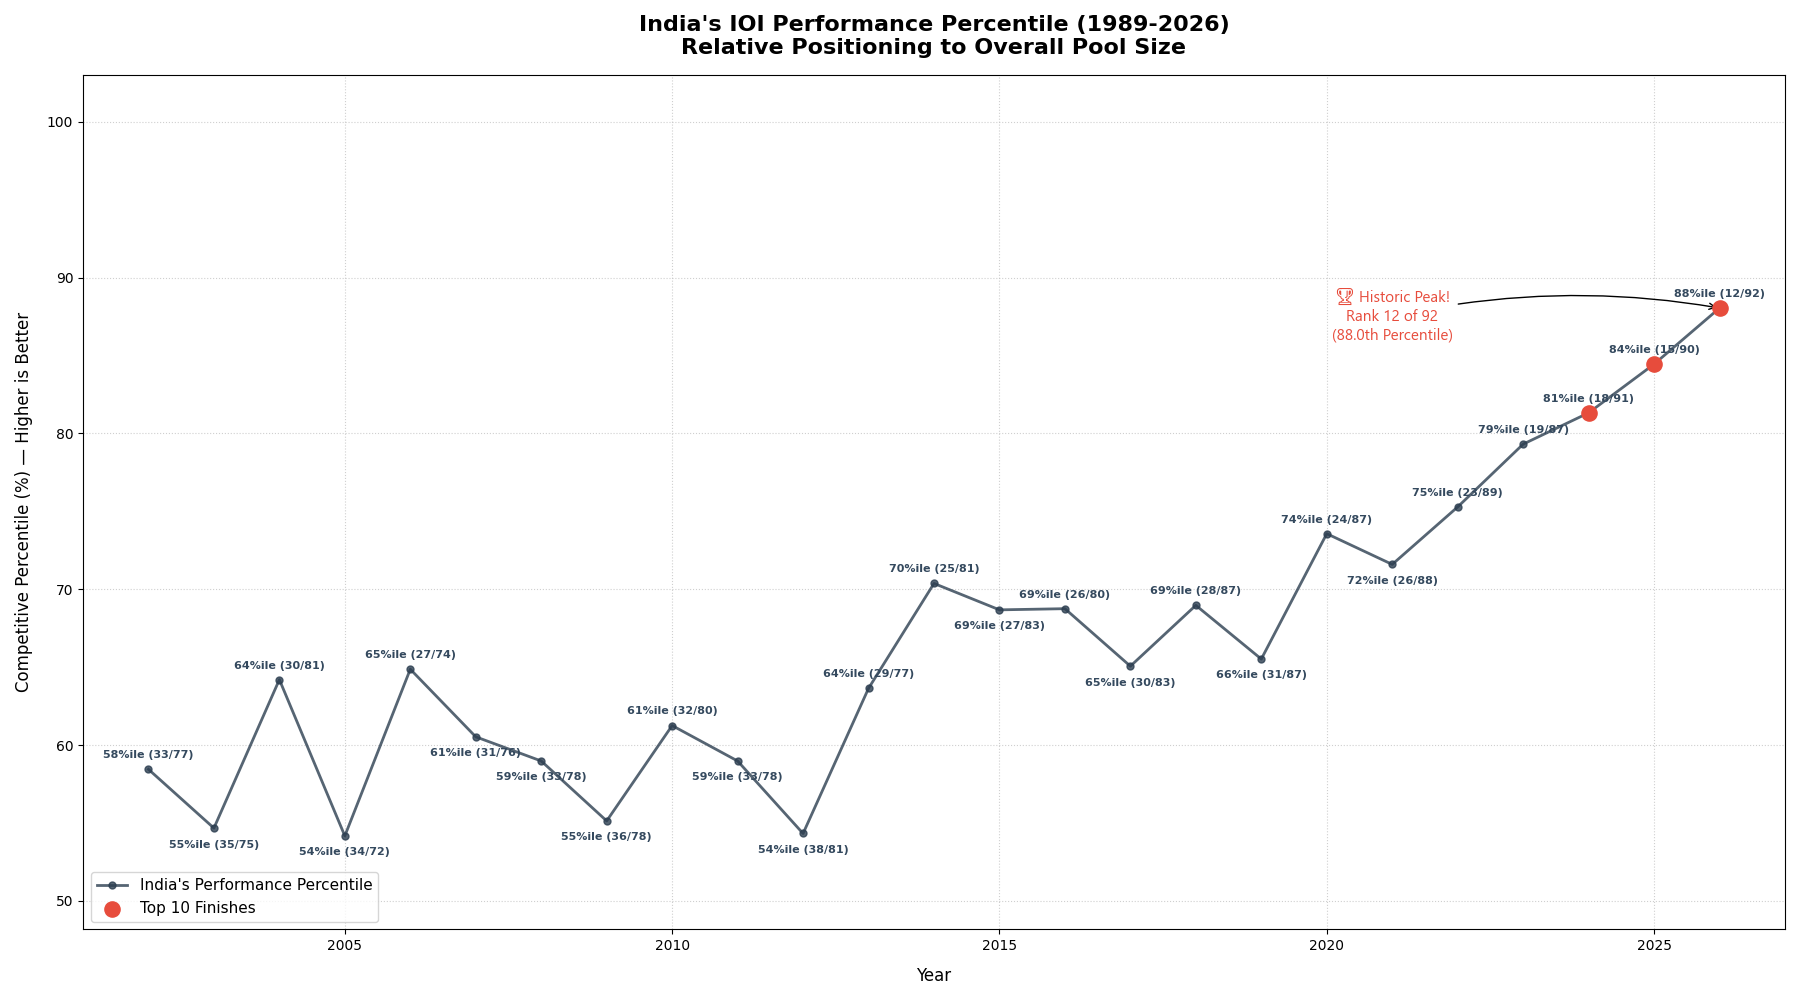
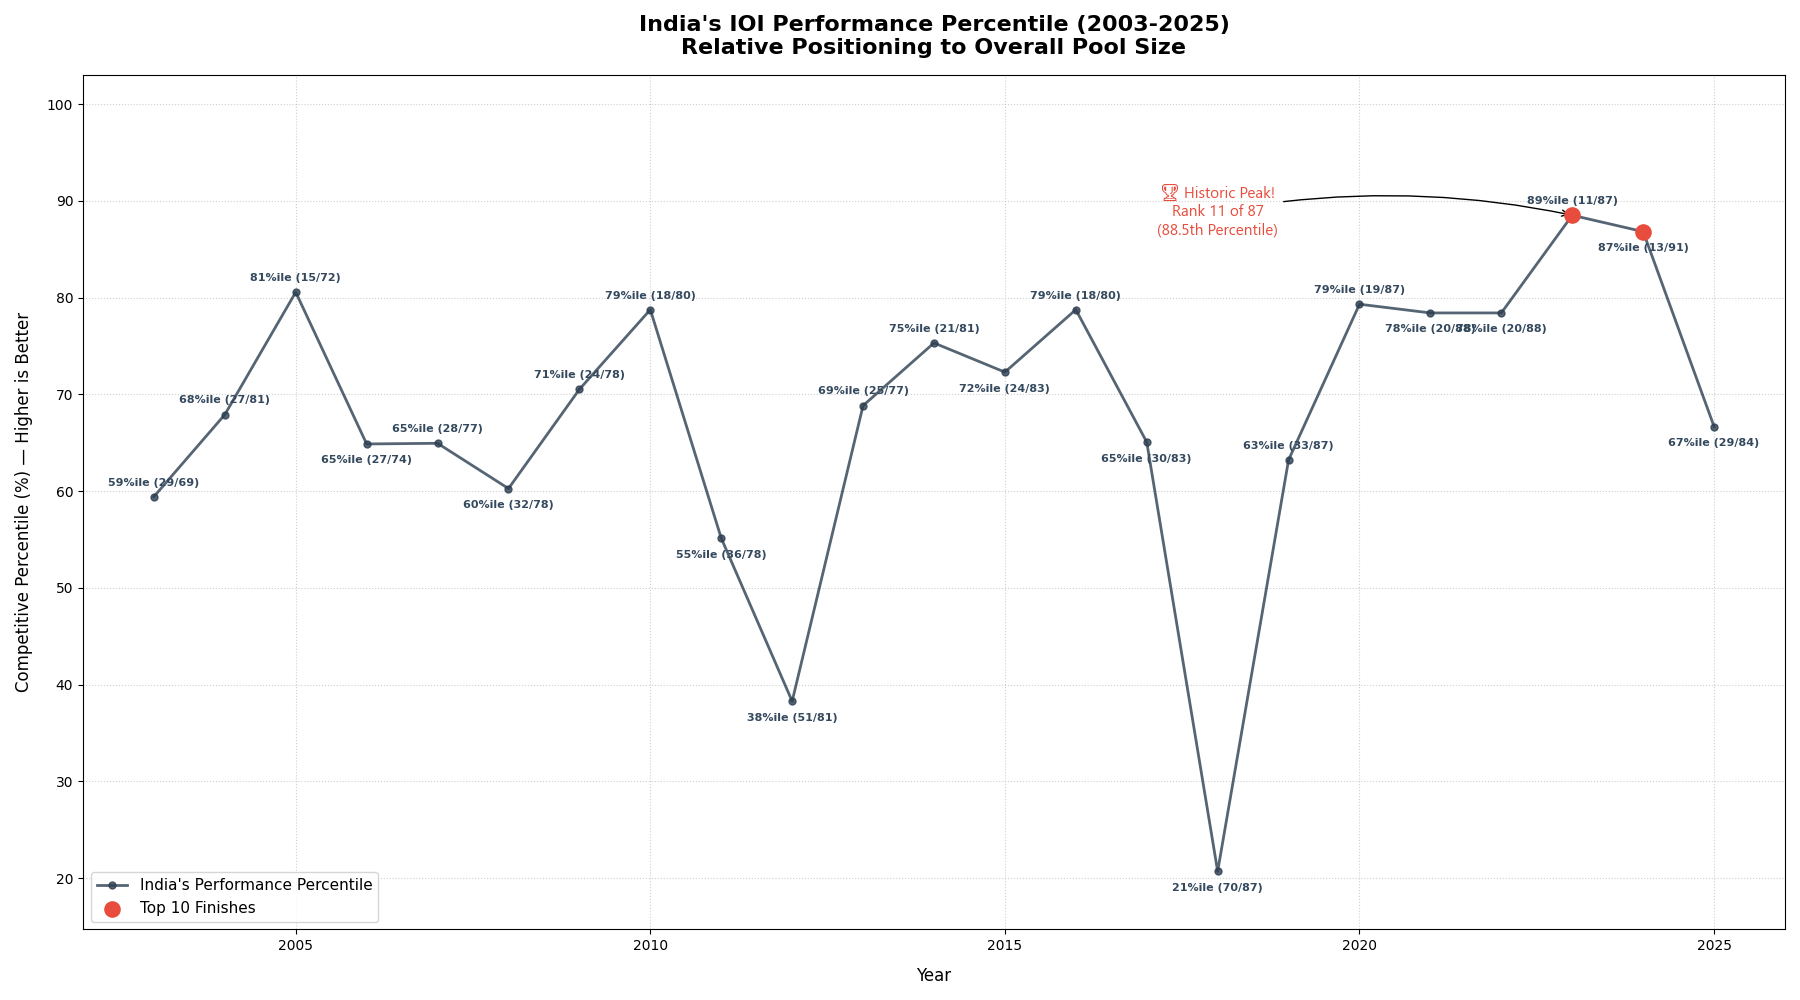
ioi_data_fix

diff --git a/india_ioi_percentile.py b/india_ioi_percentile.py
@@ -1,34 +1,34 @@
 import matplotlib.pyplot as plt
 import pandas as pd
 
-# Historical IOI Data for India (2002 - 2026)
+# Historical IOI Data for India (2003 - 2025)
 # Format: (Year, India's Unofficial Team Rank, Total Participating Countries)
+# Source: stats.ioinformatics.org (unofficial team rank computed from sum of
+# individual scores). India first participated in IOI 2003.
 ioi_data = [
-    (2002, 33, 77),
-    (2003, 35, 75),
-    (2004, 30, 81),
-    (2005, 34, 72),
+    (2003, 29, 69),
+    (2004, 27, 81),
+    (2005, 15, 72),
     (2006, 27, 74),
-    (2007, 31, 76),
-    (2008, 33, 78),
-    (2009, 36, 78),
-    (2010, 32, 80),
-    (2011, 33, 78),
-    (2012, 38, 81),
-    (2013, 29, 77),
-    (2014, 25, 81),
-    (2015, 27, 83),
-    (2016, 26, 80),
+    (2007, 28, 77),
+    (2008, 32, 78),
+    (2009, 24, 78),
+    (2010, 18, 80),
+    (2011, 36, 78),
+    (2012, 51, 81),
+    (2013, 25, 77),
+    (2014, 21, 81),
+    (2015, 24, 83),
+    (2016, 18, 80),
     (2017, 30, 83),
-    (2018, 28, 87),
-    (2019, 31, 87),
-    (2020, 24, 87),
-    (2021, 26, 88),
-    (2022, 23, 89),
-    (2023, 19, 87),
-    (2024, 18, 91),
-    (2025, 15, 90),
-    (2026, 12, 92),
+    (2018, 70, 87),
+    (2019, 33, 87),
+    (2020, 19, 87),
+    (2021, 20, 88),
+    (2022, 20, 88),
+    (2023, 11, 87),
+    (2024, 13, 91),
+    (2025, 29, 84),
 ]
 
 
@@ -94,12 +94,12 @@ plt.scatter(
     label="Top 10 Finishes",
 )
 
-# Specifically label the all-time high water mark (2026)
-best_2026 = df[df["Year"] == 2026].iloc[0]
+# Specifically label the all-time high water mark (2023)
+best_year = df.loc[df["Percentile"].idxmax()]
 plt.annotate(
-    f"🏆 Historic Peak!\nRank {int(best_2026['Rank'])} of {int(best_2026['Total_Countries'])}\n({best_2026['Percentile']:.1f}th Percentile)",
-    xy=(2026, best_2026["Percentile"]),
-    xytext=(2021, best_2026["Percentile"] - 2),
+    f"🏆 Historic Peak!\nRank {int(best_year['Rank'])} of {int(best_year['Total_Countries'])}\n({best_year['Percentile']:.1f}th Percentile)",
+    xy=(best_year["Year"], best_year["Percentile"]),
+    xytext=(best_year["Year"] - 5, best_year["Percentile"] - 2),
     arrowprops=dict(
         facecolor="#e74c3c", arrowstyle="->", connectionstyle="arc3,rad=-0.1"
     ),
@@ -112,7 +112,7 @@ plt.annotate(
 
 # Plot customization
 plt.title(
-    "India's IOI Performance Percentile (1989-2026)\nRelative Positioning to Overall Pool Size",
+    "India's IOI Performance Percentile (2003-2025)\nRelative Positioning to Overall Pool Size",
     fontsize=16,
     fontweight="bold",
     pad=15,
